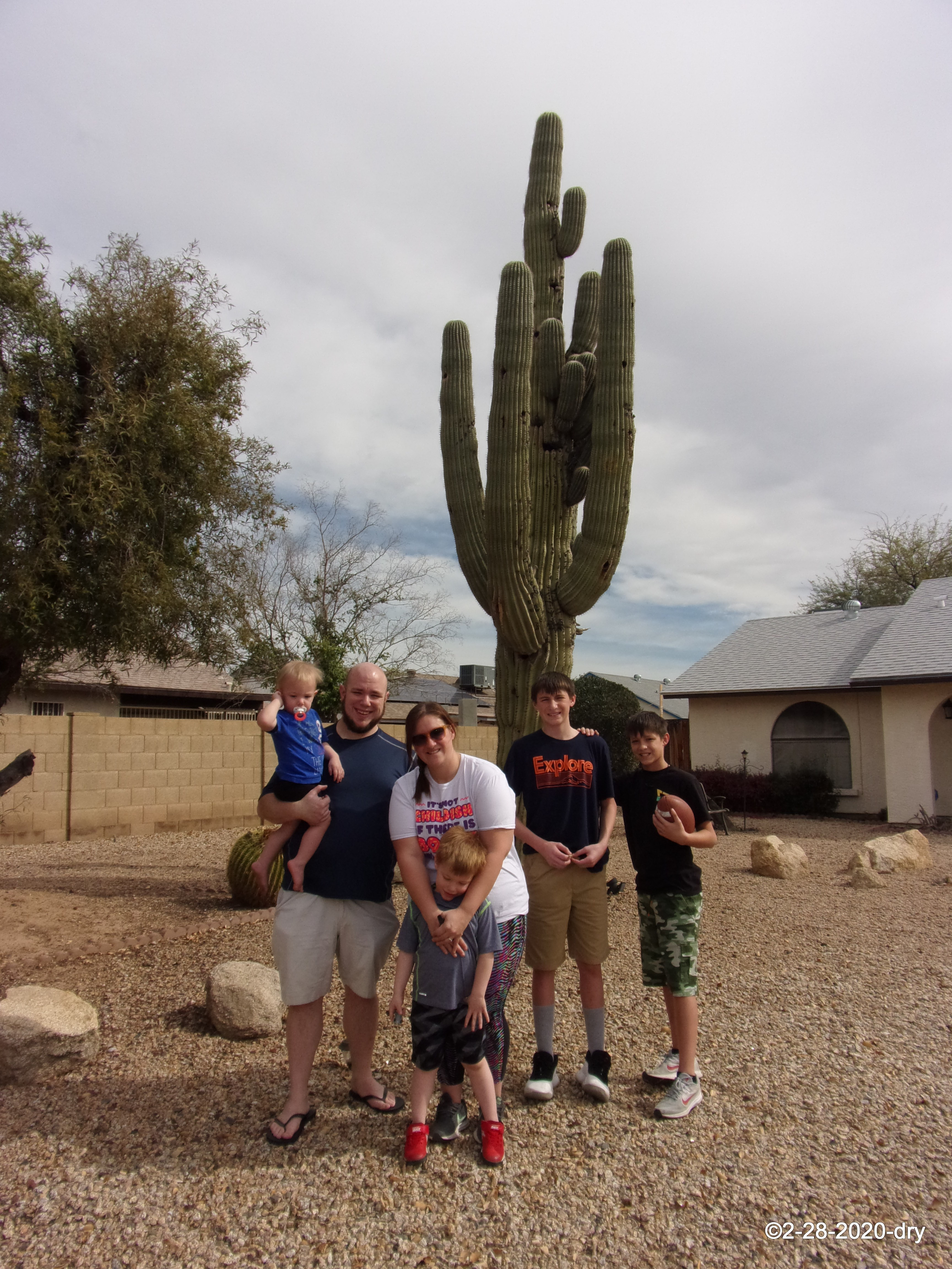
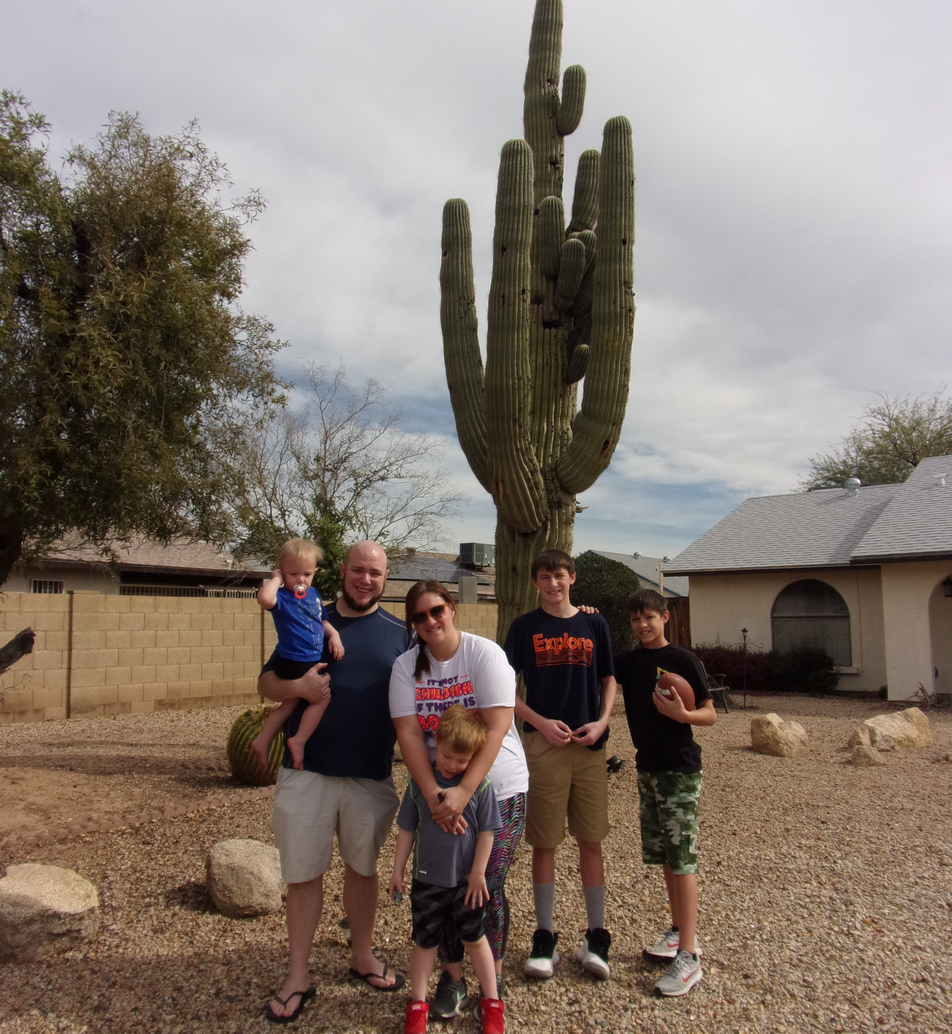
Updated CSS, Goals page, and edited photos to fit better and reuce sizes

diff --git a/bioSite.css b/bioSite.css
@@ -21,7 +21,7 @@ header {
 }
 
 header h1 {
-  font-size: 2.5em;
+  font-size: 3.5em;
   color: #000000;
 }
 
@@ -79,7 +79,12 @@ nav a:hover {
 }
 
 .bio-text h2 {
-  color: #000000;
+  color: #E7EB97;
+  text-shadow: 
+    -1px -1px 0 #000,  
+     1px -1px 0 #000,
+    -1px  1px 0 #000,
+     1px  1px 0 #000;
   margin-bottom: 15px;
 }
 
@@ -100,8 +105,13 @@ nav a:hover {
 }
   
 .goals-layout h2 {
-    margin-bottom: 30px;
-    color: #000000;
+  color: #E7EB97;
+  text-shadow: 
+    -1px -1px 0 #000,  
+     1px -1px 0 #000,
+    -1px  1px 0 #000,
+     1px  1px 0 #000;
+  margin-bottom: 30px;
 }
   
 /* Card Grid */
@@ -135,59 +145,64 @@ nav a:hover {
 }
   
 .goal-card:hover {
-    transform: scale(1.02);
+    transform: scale(1.10);
 }
 
 /* Hobbies Page Layout */
 .hobbies-layout {
     padding: 40px 10%;
     text-align: center;
-  }
+}
   
-  .hobbies-layout h2 {
-    margin-bottom: 30px;
-    color: #000000;
-  }
+.hobbies-layout h2 {
+  color: #E7EB97;
+  text-shadow: 
+    -1px -1px 0 #000,  
+     1px -1px 0 #000,
+    -1px  1px 0 #000,
+     1px  1px 0 #000;
+  margin-bottom: 30px;
+}
   
   /* Hobby Cards */
-  .hobby-card {
-    background-color: #E7EB97;
-    padding: 15px;
-    border-radius: 10px;
-    box-shadow: 0 4px 8px rgba(0, 0, 0, 0.2);
-    text-align: left;
-    transition: transform 0.2s ease;
-  }
+.hobby-card {
+  background-color: #E7EB97;
+  padding: 15px;
+  border-radius: 10px;
+  box-shadow: 0 4px 8px rgba(0, 0, 0, 0.2);
+  text-align: left;
+  transition: transform 0.2s ease;
+}
   
-  .hobby-card img {
-    width: 100%;
-    height: auto;
-    border-radius: 8px;
-    margin-bottom: 10px;
-  }
+.hobby-card img {
+  width: 100%;
+  height: auto;
+  border-radius: 8px;
+  margin-bottom: 10px;
+}
   
-  .hobby-card p {
-    color: #000000;
-    font-size: 0.95em;
-  }
+.hobby-card p {
+  color: #000000;
+  font-size: 0.95em;
+}
   
-  .hobby-card:hover {
-    transform: scale(1.02);
-  }
+.hobby-card:hover {
+  transform: scale(1.10);
+}
   
-  .sr-only {
-    position: absolute;
-    width: 1px;
-    height: 1px;
-    padding: 0;
-    margin: -1px;
-    overflow: hidden;
-    clip: rect(0, 0, 0, 0);
-    white-space: nowrap;
-    border: 0;
-  }
+.sr-only {
+  position: absolute;
+  width: 1px;
+  height: 1px;
+  padding: 0;
+  margin: -1px;
+  overflow: hidden;
+  clip: rect(0, 0, 0, 0);
+  white-space: nowrap;
+  border: 0;
+}
 
-  /* Footer Styles */
+/* Footer Styles */
 .site-footer {
   background-color: #000000;
   padding: 10px 20px;
@@ -196,25 +211,25 @@ nav a:hover {
   position: relative;
   margin-top: 40px;
 }
-
+  
 .footer-center {
   text-align: center;
   margin: 0;
 }
-
+  
 .footer-link {
   position: absolute;
   right: 20px;
   top: 10px;
   margin: 0;
 }
-
+  
 .footer-link a {
   color: #E7EB97;
   text-decoration: none;
   font-size: 0.85em;
 }
-
+  
 .footer-link a:hover {
   text-decoration: underline;
 }

diff --git a/goals.html b/goals.html
@@ -30,7 +30,8 @@
   
       <div class="goal-card">
         <img src="images/StilesInSantaMonica.jpg" alt="Taryn in Santa Monica">
-        <p>Fulfilling her goal to visit California, Taryn was on the Ferris Wheel on the Santa Monica Pier by the Pacific Ocean.</p>
+        <p>Fulfilling her goal to visit California, Taryn was on the Ferris Wheel on the Santa Monica Pier by the Pacific Ocean.
+          She travelled with her husband, mother-in-law, and youngest son. This was the first time she had ever seen the ocean.</p>
       </div>
   
       <div class="goal-card">
